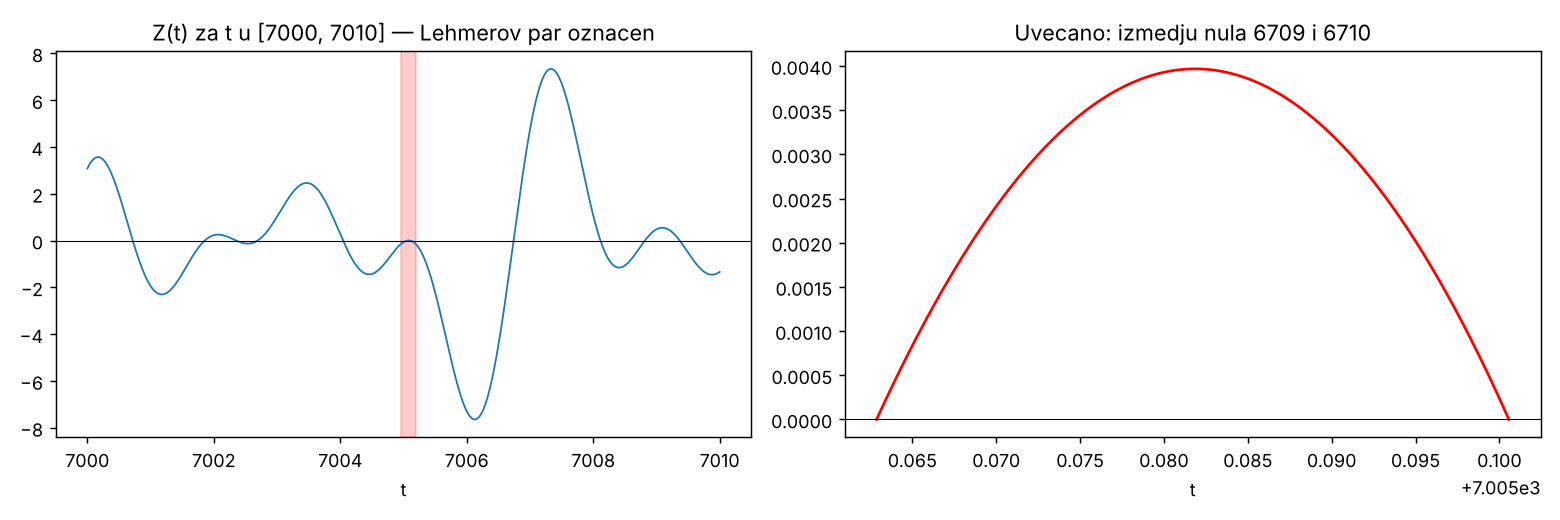
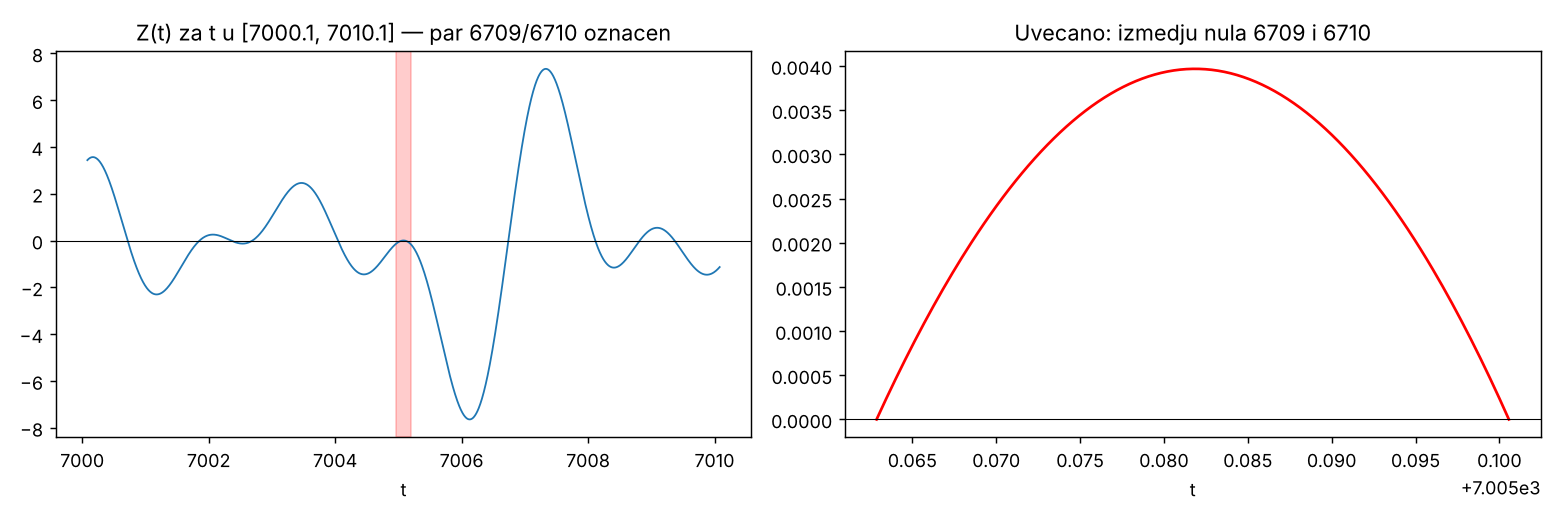
argparse za sve skripte, grafik para 4765/4766

diff --git a/kod/lehmer.py b/kod/lehmer.py
@@ -1,43 +1,57 @@
+"""Z(t) oko para uzastopnih nula zeta funkcije: razmak, vrh izmedju nula, grafik."""
+import argparse
 import mpmath as mp
 import matplotlib
 matplotlib.use("Agg")
 import matplotlib.pyplot as plt
 
-mp.mp.dps = 25
+parser = argparse.ArgumentParser(description="Z(t) oko para uzastopnih nula zeta funkcije")
+parser.add_argument("--n1", type=int, default=6709, help="indeks prve nule (podrazumevano 6709)")
+parser.add_argument("--n2", type=int, default=None, help="indeks druge nule (podrazumevano n1+1)")
+parser.add_argument("--prozor", type=float, default=5.0, help="poluširina grafika oko sredine para (podrazumevano 5)")
+parser.add_argument("--izlaz", default=None, help="ime PNG fajla (podrazumevano lehmer_par_N1_N2.png)")
+args = parser.parse_args()
 
-# Klasican Lehmerov par: nule br. 6709 i 6710
-z1 = mp.zetazero(6709).imag
-z2 = mp.zetazero(6710).imag
-print(f"nula 6709: t = {mp.nstr(z1, 15)}")
-print(f"nula 6710: t = {mp.nstr(z2, 15)}")
+n1 = args.n1
+n2 = args.n2 if args.n2 is not None else n1 + 1
+if n1 < 1 or n2 <= n1:
+    parser.error("mora vaziti 1 <= n1 < n2")
+if args.prozor <= 0:
+    parser.error("--prozor mora biti pozitivan")
+izlaz = args.izlaz or f"lehmer_par_{n1}_{n2}.png"
+
+mp.mp.dps = 25
+z1 = mp.zetazero(n1).imag
+z2 = mp.zetazero(n2).imag
+print(f"nula {n1}: t = {mp.nstr(z1, 15)}")
+print(f"nula {n2}: t = {mp.nstr(z2, 15)}")
 print(f"razmak:     {mp.nstr(z2 - z1, 6)}")
 
-# prosecan razmak oko te visine: 2*pi / log(t/2pi)
 avg = 2 * mp.pi / mp.log(z1 / (2 * mp.pi))
 print(f"prosecan razmak na toj visini: {mp.nstr(avg, 6)}")
 print(f"odnos razmak/prosek: {mp.nstr((z2 - z1) / avg, 4)}")
 
-# maksimum |Z| izmedju dve nule
 mid_ts = [z1 + (z2 - z1) * k / 200 for k in range(201)]
 zs = [mp.siegelz(t) for t in mid_ts]
 peak = max(zs, key=lambda v: abs(v))
 print(f"najveci |Z(t)| izmedju njih: {mp.nstr(abs(peak), 6)}")
 
-# tipican vrh oscilacije u okolini (uporedjenje)
-ts = [7000 + 10 * k / 2000 for k in range(2001)]
+c = (z1 + z2) / 2
+lo, hi = float(c) - args.prozor, float(c) + args.prozor
+ts = [lo + (hi - lo) * k / 2000 for k in range(2001)]
 Z = [float(mp.siegelz(t)) for t in ts]
-print(f"tipican max |Z| u [7000,7010]: {max(abs(v) for v in Z):.4f}")
+print(f"najveci |Z| u prozoru [{lo:.2f}, {hi:.2f}]: {max(abs(v) for v in Z):.4f}")
 
 fig, ax = plt.subplots(1, 2, figsize=(12, 4))
 ax[0].plot(ts, Z, lw=1)
 ax[0].axhline(0, color="k", lw=0.6)
 ax[0].axvspan(float(z1) - 0.1, float(z2) + 0.1, color="red", alpha=0.2)
-ax[0].set_title("Z(t) za t u [7000, 7010] — Lehmerov par oznacen")
+ax[0].set_title(f"Z(t) za t u [{lo:.1f}, {hi:.1f}] — par {n1}/{n2} oznacen")
 ax[0].set_xlabel("t")
-
 ax[1].plot([float(t) for t in mid_ts], [float(v) for v in zs], lw=1.5, color="red")
 ax[1].axhline(0, color="k", lw=0.6)
-ax[1].set_title("Uvecano: izmedju nula 6709 i 6710")
+ax[1].set_title(f"Uvecano: izmedju nula {n1} i {n2}")
 ax[1].set_xlabel("t")
 plt.tight_layout()
-plt.savefig("lehmer_par.png", dpi=130)
+plt.savefig(izlaz, dpi=130)
+print(f"grafik: {izlaz}")

diff --git a/kod/pattern.py b/kod/pattern.py
@@ -1,6 +1,18 @@
+"""Obrazac oko tesnih prolazaka: zamah i razmak suseda, sa nasumicnom kontrolom."""
+import argparse
 import numpy as np, matplotlib
 matplotlib.use("Agg"); import matplotlib.pyplot as plt
-d = np.load("scan.npz"); ts, Z, sc, peaks, rel = d["ts"], d["Z"], d["sc"], d["peaks"], d["rel"]
+
+parser = argparse.ArgumentParser(description="Zamah i razmak oko tesnih prolazaka Z(t) kroz 0")
+parser.add_argument("--ulaz", default="scan.npz", help="izlaz skripte scan.py (podrazumevano scan.npz)")
+parser.add_argument("--prag", type=float, default=0.05, help="tesan prolazak: vrh/medijana ispod praga (podrazumevano 0.05)")
+parser.add_argument("--seed", type=int, default=42, help="seed za nasumicnu kontrolu (podrazumevano 42)")
+parser.add_argument("--izlaz", default="obrazac_oko_tesnih.png", help="ime grafika")
+args = parser.parse_args()
+if not (0 < args.prag < 1):
+    parser.error("--prag mora biti izmedju 0 i 1")
+
+d = np.load(args.ulaz); ts, Z, sc, peaks, rel = d["ts"], d["Z"], d["sc"], d["peaks"], d["rel"]
 # tacnije pozicije nula: linearna interpolacija na mrezi
 z = ts[sc] - Z[sc] * (ts[sc+1] - ts[sc]) / (Z[sc+1] - Z[sc])
 gap = np.diff(z)                               # gap[i] = razmak nula i, i+1  (prolazak i)
@@ -8,15 +20,15 @@ avg = 2*np.pi/np.log(((z[:-1]+z[1:])/2)/(2*np.pi))
 g = gap/avg                                    # normalizovan razmak (prosek ~1)
 
 valid = np.arange(3, len(rel)-3)
-tight = valid[rel[valid] < 0.05]
-print(f"tesnih prolazaka (zamah < 5%): {len(tight)}\n")
+tight = valid[rel[valid] < args.prag]
+print(f"tesnih prolazaka (zamah < {100*args.prag:g}%): {len(tight)}\n")
 print("pozicija u odnosu na tesni |  prosecan zamah (rel) | prosecan razmak (norm.)")
 for k in (-3,-2,-1,0,1,2,3):
     print(f"   {k:+d}                     |   {rel[tight+k].mean():6.3f}             |   {g[tight+k].mean():5.3f}")
 print(f"\n  svi prolasci (osnova)     |   {rel[valid].mean():6.3f}             |   {g[valid].mean():5.3f}")
 
 # kontrola: da li je efekat slucajan? -- nasumicni skupovi iste velicine
-rng = np.random.default_rng(42)
+rng = np.random.default_rng(args.seed)
 sims = [rel[rng.choice(valid, len(tight), replace=False)+1].mean() for _ in range(2000)]
 s = np.array(sims)
 print(f"\nkontrola: zamah suseda +1 kod {len(tight)} nasumicnih prolazaka: prosek {s.mean():.3f}, 99.9 pct {np.percentile(s,99.9):.3f}")
@@ -43,4 +55,4 @@ ax[1].bar(ks, [g[np.clip(tight+k,0,len(g)-1)].mean() for k in ks], color="#5a9e6
 ax[1].axhline(1, color="red", lw=1, label="prosecan razmak = 1")
 ax[1].set_xlabel("pozicija u odnosu na tesni prolazak"); ax[1].set_ylabel("razmak nula (norm.)")
 ax[1].set_title("Razmak izmedju nula oko tesnih prolazaka"); ax[1].legend()
-plt.tight_layout(); plt.savefig("obrazac_oko_tesnih.png", dpi=130)
+plt.tight_layout(); plt.savefig(args.izlaz, dpi=130); print(f"grafik: {args.izlaz}")

diff --git a/kod/grafici_dodatni.py b/kod/grafici_dodatni.py
@@ -1,8 +1,18 @@
-"""Grafici: raspodela_vrhova.png (iz scan.npz) i sudar_nula.png (iz heat.pkl)."""
-import pickle, numpy as np, matplotlib
-matplotlib.use("Agg"); import matplotlib.pyplot as plt
+"""Grafici: raspodela vrhova (iz scan.py) i sudar para nula (iz heatflow.py)."""
+import argparse
+import pickle
+import numpy as np
+import matplotlib
+matplotlib.use("Agg")
+import matplotlib.pyplot as plt
 
-d = np.load("scan.npz"); rel = d["rel"]
+parser = argparse.ArgumentParser(description="Dodatni grafici iz scan.npz i heat.pkl")
+parser.add_argument("--scan", default="scan.npz", help="izlaz skripte scan.py (podrazumevano scan.npz)")
+parser.add_argument("--heat", default="heat.pkl", help="izlaz skripte heatflow.py (podrazumevano heat.pkl)")
+parser.add_argument("--par", type=int, default=6709, help="koji par iz heat.pkl crtati (indeks prve nule; podrazumevano 6709)")
+args = parser.parse_args()
+
+d = np.load(args.scan); rel = d["rel"]
 fig, ax = plt.subplots(figsize=(8, 4))
 ax.hist(np.log10(rel), bins=80, color="#3b6ea5")
 ax.set_xlabel("log10( vrh izmedju dva prolaska / medijana okoline )")
@@ -14,8 +24,10 @@ for x, l in [(np.log10(0.00255), "6709/6710"), (np.log10(0.00298), "4765/4766")]
 plt.tight_layout(); plt.savefig("raspodela_vrhova.png", dpi=130)
 print("<1%:", (rel < 0.01).sum(), " <5%:", (rel < 0.05).sum(), " <10%:", (rel < 0.1).sum(), " ukupno:", len(rel))
 
-res = pickle.load(open("heat.pkl", "rb"))
-a, b, sc, traj = res["lehmer"]
+res = pickle.load(open(args.heat, "rb"))
+if args.par not in res:
+    parser.error(f"par {args.par} nije u {args.heat}; dostupni: {sorted(res)}")
+a, b, sc, traj = res[args.par]
 fig, ax = plt.subplots(1, 2, figsize=(12, 4.2))
 for s, rr in traj:
     for z in rr:
@@ -25,6 +37,8 @@ for s, rr in traj:
 for A in ax:
     A.axvline(-4 * sc * 1e4, color="k", ls="--", lw=1); A.invert_xaxis()
     A.set_xlabel("dBN vreme t  (x 1e-4)   <-- glacanje")
-ax[0].set_ylabel("polozaj nule (realni deo)"); ax[0].set_title("Nule 6709 i 6710: priblizavanje i sudar")
+ax[0].set_ylabel("polozaj nule (realni deo)"); ax[0].set_title(f"Nule {args.par} i {args.par+1}: priblizavanje i sudar")
 ax[1].set_ylabel("imaginarni deo (odstupanje od linije)"); ax[1].set_title("Posle sudara: par napusta kriticnu liniju")
-plt.tight_layout(); plt.savefig("sudar_nula.png", dpi=130)
+izlaz = "sudar_nula.png" if args.par == 6709 else f"sudar_nula_{args.par}_{args.par+1}.png"
+plt.tight_layout(); plt.savefig(izlaz, dpi=130)
+print(f"grafik: {izlaz}")

diff --git a/kod/scan.py b/kod/scan.py
@@ -3,9 +3,20 @@ Brzi Riemann-Siegel (glavna suma + C0 korekcija) za skeniranje,
 pa precizna provera najtesnjih kandidata preko mpmath.siegelz."""
 import numpy as np
 import mpmath as mp
-import sys
+import argparse
 
-T_MIN, T_MAX, STEP = 14.0, float(sys.argv[1]) if len(sys.argv) > 1 else 7100.0, 0.005
+parser = argparse.ArgumentParser(description="Skeniranje Z(t): prolasci kroz 0 i visina vrha izmedju njih")
+parser.add_argument("--t-max", type=float, default=7100.0, help="gornja granica za t (podrazumevano 7100)")
+parser.add_argument("--t-min", type=float, default=14.0, help="donja granica za t (podrazumevano 14)")
+parser.add_argument("--korak", type=float, default=0.005, help="korak mreze (podrazumevano 0.005)")
+parser.add_argument("--top", type=int, default=25, help="koliko najtesnjih prolazaka precizno proveriti (podrazumevano 25)")
+parser.add_argument("--izlaz", default="scan.npz", help="izlazni .npz (podrazumevano scan.npz)")
+args = parser.parse_args()
+if not (0 < args.t_min < args.t_max):
+    parser.error("mora vaziti 0 < t-min < t-max")
+if args.korak <= 0 or args.top < 1:
+    parser.error("--korak mora biti > 0, --top >= 1")
+T_MIN, T_MAX, STEP = args.t_min, args.t_max, args.korak
 
 
 def theta(t):
@@ -45,7 +56,7 @@ rel = peaks / norm
 
 # precizna provera 25 najtesnjih (po relativnoj visini)
 mp.mp.dps = 20
-order = np.argsort(rel)[:25]
+order = np.argsort(rel)[:args.top]
 print("\n rang |  nule (redni br.)  |   t_1       t_2     | vrh |Z| (tacno) | vrh / medijana okoline")
 rows = []
 for r, i in enumerate(order, 1):
@@ -65,4 +76,5 @@ for r, i in enumerate(order, 1):
     rows.append((i + 1, float(t1), float(t2), float(pk), float(pk / norm[i])))
     print(f" {r:3d}  | {i + 1:6d} i {i + 2:6d}  | {float(t1):9.4f} {float(t2):9.4f} | {float(pk):.6f} | {float(pk / norm[i]):.5f}")
 
-np.savez("scan.npz", ts=ts, Z=Z, sc=sc, peaks=peaks, rel=rel)
+np.savez(args.izlaz, ts=ts, Z=Z, sc=sc, peaks=peaks, rel=rel)
+print(f"\nsacuvano: {args.izlaz}")

diff --git a/kod/heatflow.py b/kod/heatflow.py
@@ -2,6 +2,8 @@
 H_t(gamma) = exp(-(t/4) d^2/dgamma^2) Xi(gamma)   (x = 2*gamma u dBN konvenciji)
 t < 0  ->  obicna difuzija (izglacavanje): mali vrh izmedju nula nestaje, nule se sudaraju.
 Lokalno: Xi se aproksimira Cebisevljevim polinomom, pa je exp(s D^2) p tacno (konacna suma)."""
+import argparse
+import pickle
 import numpy as np
 import mpmath as mp
 from numpy.polynomial import Chebyshev as C
@@ -59,9 +61,21 @@ def collide(n1, label, half=1.6, deg=26):
 
 
 if __name__ == "__main__":
-    import pickle
+    parser = argparse.ArgumentParser(description="Lokalni toplotni tok: kada se par uzastopnih nula sudari")
+    parser.add_argument("--parovi", default="6709,4765,6700",
+                        help="indeksi prve nule svakog para, odvojeni zarezom (par je n1, n1+1); podrazumevano 6709,4765,6700")
+    parser.add_argument("--polusirina", type=float, default=1.6, help="poluširina prozora polinomne aproksimacije (podrazumevano 1.6)")
+    parser.add_argument("--stepen", type=int, default=26, help="stepen Cebisevljevog polinoma (podrazumevano 26)")
+    parser.add_argument("--izlaz", default="heat.pkl", help="izlazni .pkl (podrazumevano heat.pkl)")
+    args = parser.parse_args()
+    try:
+        parovi = [int(x) for x in args.parovi.split(",") if x.strip()]
+    except ValueError:
+        parser.error("--parovi mora biti lista celih brojeva, npr. 6709,4765")
+    if not parovi or min(parovi) < 1 or args.polusirina <= 0 or args.stepen < 4:
+        parser.error("neispravni argumenti (n1 >= 1, polusirina > 0, stepen >= 4)")
     res = {}
-    res["lehmer"] = collide(6709, "Lemerov par #1")
-    res["lehmer2"] = collide(4765, "Lemerov par #2")
-    res["normal"] = collide(6700, "obican par (kontrola)")
-    pickle.dump(res, open("heat.pkl", "wb"))
+    for n1 in parovi:
+        res[n1] = collide(n1, f"par {n1}/{n1+1}", half=args.polusirina, deg=args.stepen)
+    pickle.dump(res, open(args.izlaz, "wb"))
+    print(f"\nsacuvano: {args.izlaz}")

diff --git a/kod/gue.py b/kod/gue.py
@@ -1,12 +1,21 @@
+"""Razmaci nula: poredjenje sa GUE (Vignerova aproksimacija) i Poasonom, par-korelacija."""
+import argparse
 import numpy as np, matplotlib
 matplotlib.use("Agg"); import matplotlib.pyplot as plt
-d = np.load("scan.npz"); ts, Z, sc = d["ts"], d["Z"], d["sc"]
+
+parser = argparse.ArgumentParser(description="Raspodela razmaka nula: GUE ili Poason")
+parser.add_argument("--ulaz", default="scan.npz", help="izlaz skripte scan.py (podrazumevano scan.npz)")
+parser.add_argument("--t-min", type=float, default=1000.0, help="koristi samo nule iznad ove visine (podrazumevano 1000)")
+parser.add_argument("--izlaz", default="gue_poredjenje.png", help="ime grafika")
+args = parser.parse_args()
+
+d = np.load(args.ulaz); ts, Z, sc = d["ts"], d["Z"], d["sc"]
 z = ts[sc] - Z[sc]*(ts[sc+1]-ts[sc])/(Z[sc+1]-Z[sc])
 # "unfolding": prosecna gustina nula N(t) ~ t/2pi log(t/2pi e) + 7/8
 N = lambda t: t/(2*np.pi)*np.log(t/(2*np.pi*np.e)) + 7/8
 u = N(z)
 s = np.diff(u)
-s = s[u[:-1] > N(1000)]          # izbegni najnize nule (pravilnije)
+s = s[u[:-1] > N(args.t_min)]          # izbegni najnize nule (pravilnije)
 print(f"razmaka u analizi: {len(s)}, prosek {s.mean():.4f}")
 
 gue = lambda x: 32/np.pi**2 * x**2 * np.exp(-4*x**2/np.pi)
@@ -41,4 +50,4 @@ ax[1].plot(c, R, "o", ms=3, color="#3b6ea5", label="izmereno")
 ax[1].plot(x, 1-(np.sin(np.pi*x)/(np.pi*x))**2, "r", lw=2, label="Montgomeri: 1-(sin πx/πx)²")
 ax[1].axhline(1, color="k", ls="--", lw=1, label="bez korelacije")
 ax[1].set_xlabel("rastojanje"); ax[1].set_title("Par-korelacija nula"); ax[1].legend()
-plt.tight_layout(); plt.savefig("gue_poredjenje.png", dpi=130)
+plt.tight_layout(); plt.savefig(args.izlaz, dpi=130); print(f"grafik: {args.izlaz}")

diff --git a/README.md b/README.md
@@ -156,6 +156,7 @@ Zapisano radi proverljivosti, sa obe strane.
 - Claude je broj kao oscilaciju prvo predstavio rotacijom e^(inθ). Na Srećkov zahtev prešlo se na linijsku oscilaciju. Pri tome je ispravljeno i to da se kod linijske oscilacije u 0 menja **strana**, a ne smer kretanja.
 - Claude je svoj lokalni model nazvao „prenosni model“, što je bila nejasna reč. Ispravno je „lokalni model“.
 - Prvo pokretanje `pattern.py` sadržalo je nečitku liniju koda. Ispravljena je pre objave, a rezultat se nije promenio.
+- Pri uvođenju argumenata (argparse) predlog je predviđao da `scan.py` piše `scan_t{t_max}.npz`, dok `pattern.py` i `gue.py` podrazumevano čitaju `scan.npz`. Pokretanje bez argumenata bi zato puklo. Ispravljeno pre objave: sve skripte podrazumevano koriste `scan.npz`.
 
 **Srećkove pretpostavke koje nisu prošle** navedene su u tabeli u odeljku 2.
 
@@ -173,15 +174,28 @@ Zapisano radi proverljivosti, sa obe strane.
 ```bash
 pip install -r requirements.txt
 cd kod
-python3 lehmer.py            # eksperiment 1  -> lehmer_par.png        (~30 s)
-python3 scan.py 7100         # eksperiment 2  -> scan.npz, tabela      (~45 s)
-python3 pattern.py           # eksperiment 3  (treba scan.npz)
-python3 gue.py               # eksperiment 4  (treba scan.npz)
-python3 heatflow.py          # eksperiment 5  -> heat.pkl              (~30 s)
+python3 lehmer.py            # eksperiment 1  -> lehmer_par_6709_6710.png   (~30 s)
+python3 scan.py              # eksperiment 2  -> scan.npz, tabela           (~45 s)
+python3 pattern.py           # eksperiment 3  (cita scan.npz)
+python3 gue.py               # eksperiment 4  (cita scan.npz)
+python3 heatflow.py          # eksperiment 5  -> heat.pkl                   (~30 s)
 python3 grafici_dodatni.py   # raspodela_vrhova.png, sudar_nula.png
 ```
 
-Kontrole koriste fiksni seed (42). Svi rezultati u ovom README-u su ponovljeni pokretanjem iz praznog foldera.
+Bez argumenata svaka skripta ponavlja rezultate iz ovog README-a. Sve imaju `--help`. Najvažniji argumenti:
+
+| skripta | argumenti (podrazumevano) |
+|---|---|
+| `lehmer.py` | `--n1 6709`, `--n2` (n1+1), `--prozor 5`, `--izlaz` |
+| `scan.py` | `--t-max 7100`, `--t-min 14`, `--korak 0.005`, `--top 25`, `--izlaz scan.npz` |
+| `pattern.py` | `--ulaz scan.npz`, `--prag 0.05`, `--seed 42`, `--izlaz` |
+| `gue.py` | `--ulaz scan.npz`, `--t-min 1000`, `--izlaz` |
+| `heatflow.py` | `--parovi 6709,4765,6700`, `--polusirina 1.6`, `--stepen 26`, `--izlaz heat.pkl` |
+| `grafici_dodatni.py` | `--scan scan.npz`, `--heat heat.pkl`, `--par 6709` |
+
+Primer, drugi Lemerov par: `python3 lehmer.py --n1 4765` (grafik `grafici/lehmer_par_4765_4766.png`).
+
+Kontrole koriste fiksni seed (42). Svi rezultati u ovom README-u su ponovljeni pokretanjem iz praznog foldera, i pre i posle uvođenja argumenata.
 
 ## 8. Literatura i izvori
 
